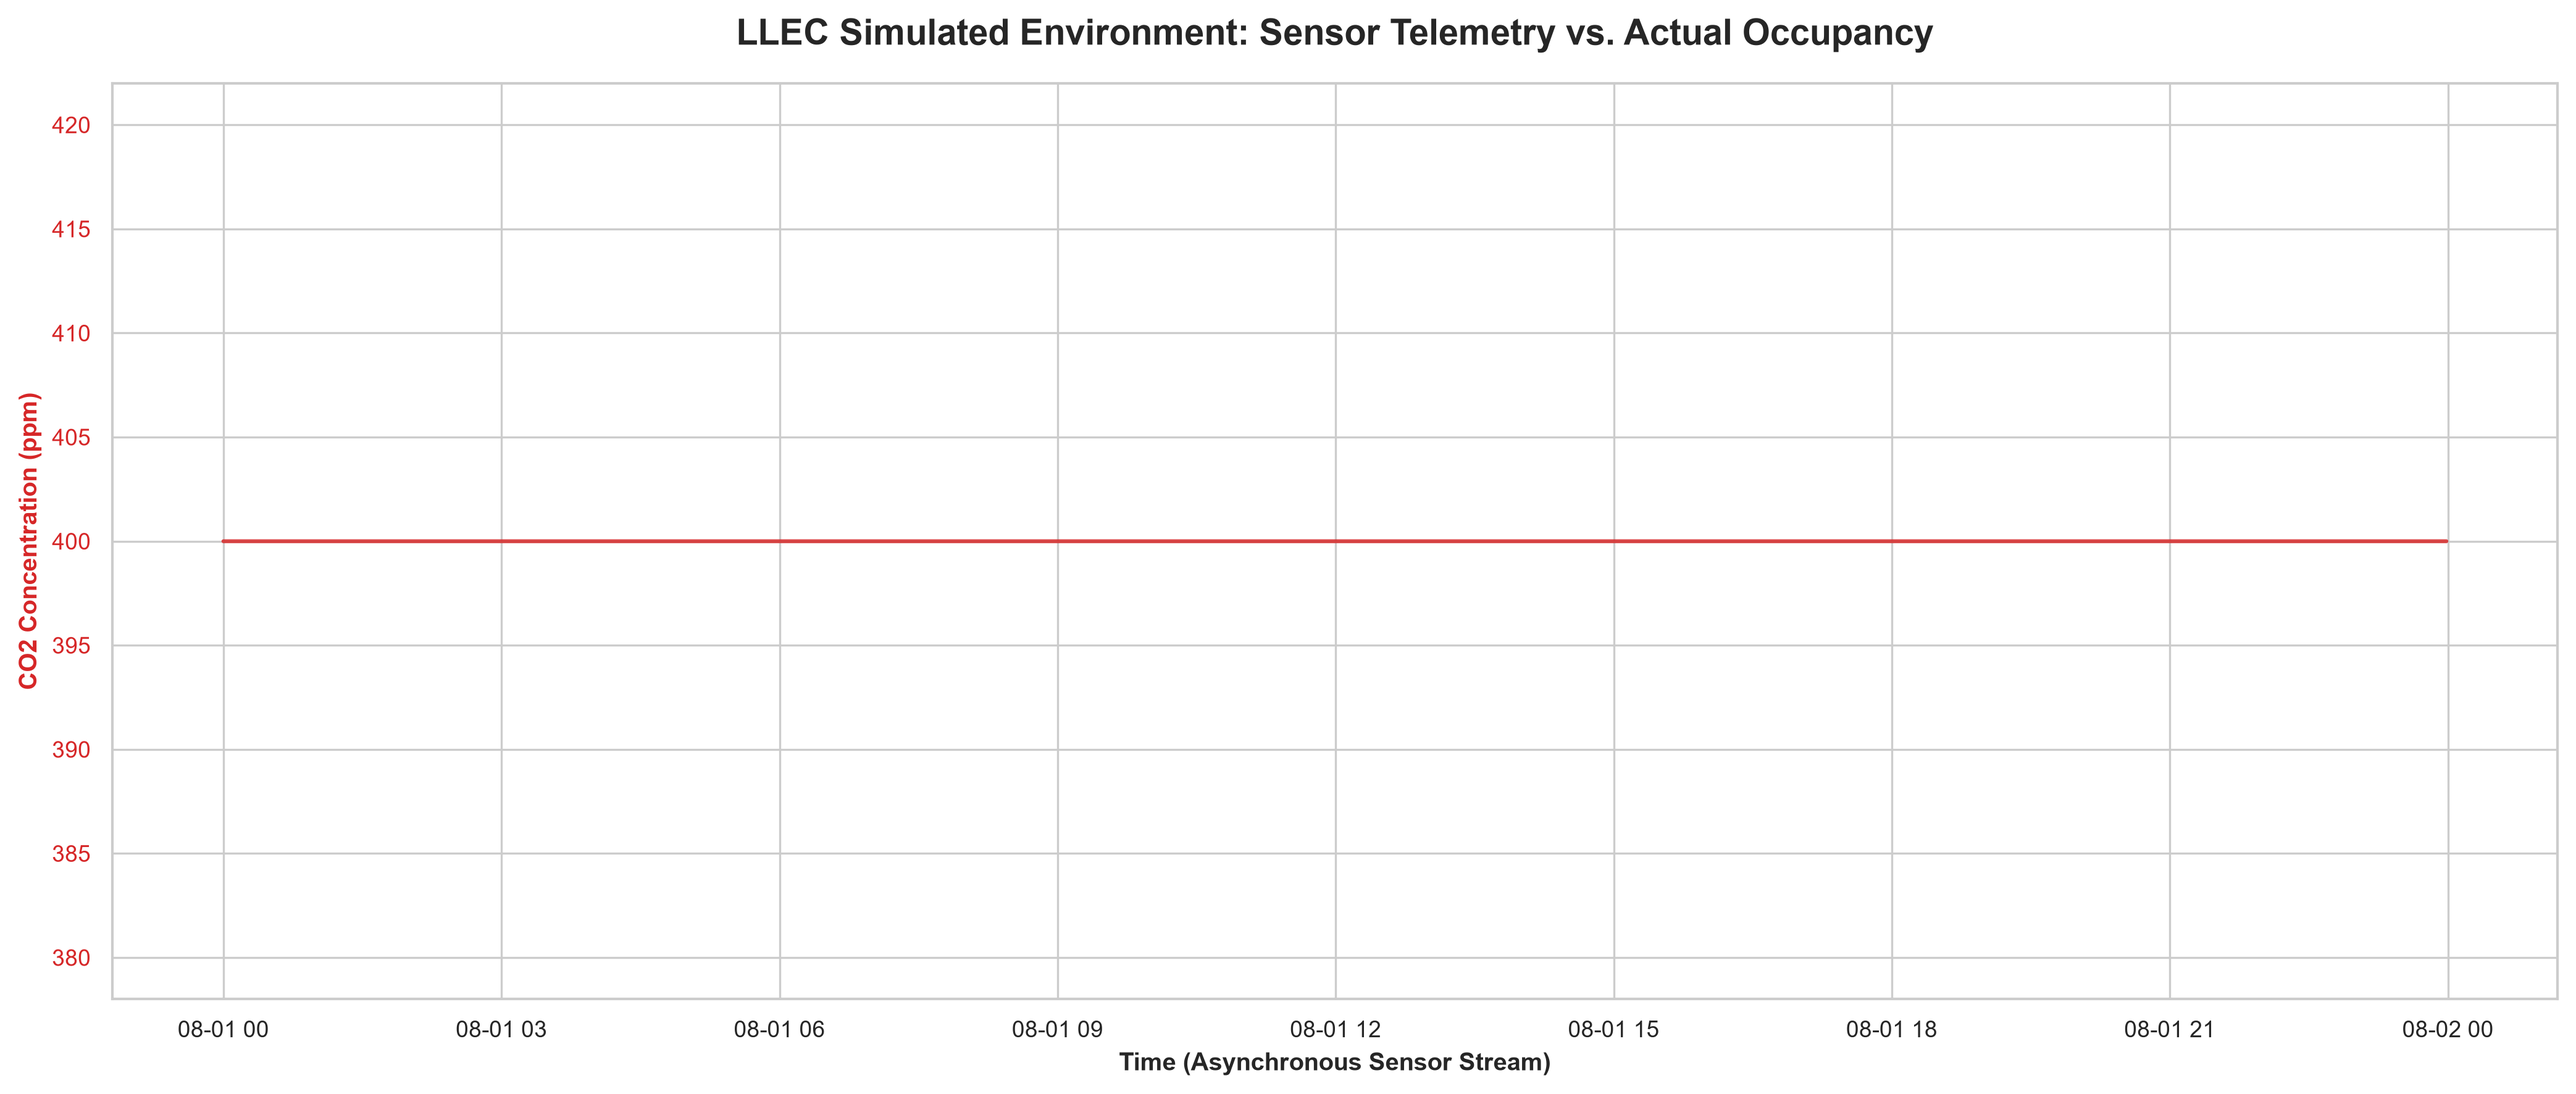
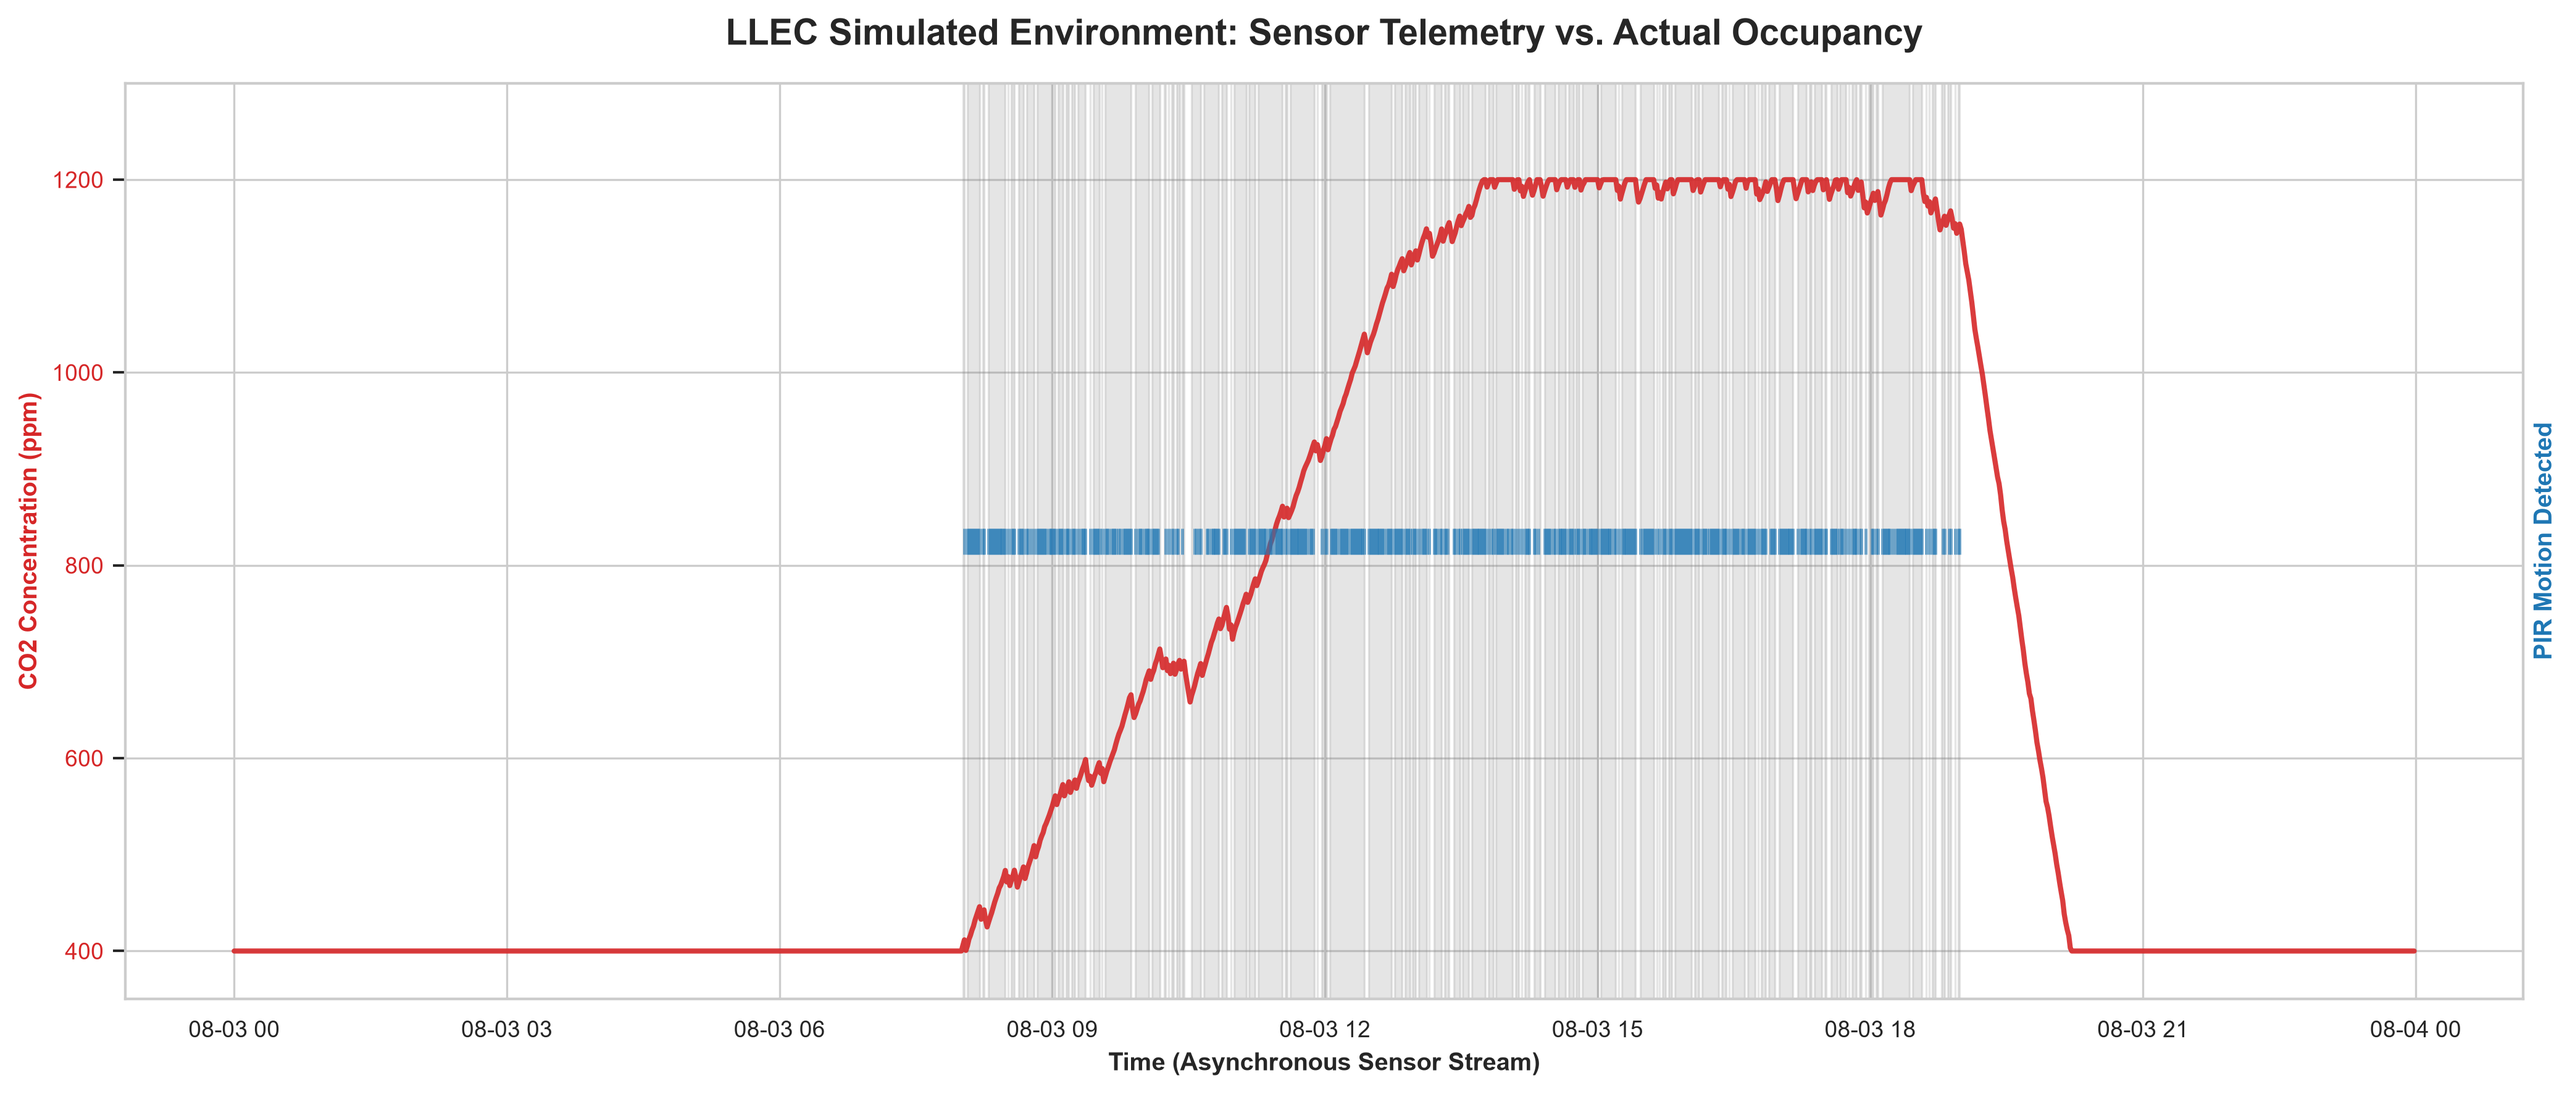
docs: embed sensor fusion analytics graph in README and update execution instructions

diff --git a/tests/test_pipeline.py b/tests/test_pipeline.py
@@ -1,0 +1,46 @@
+import os
+import pytest
+import pandas as pd
+from generate_mock_data import generate_telemetry
+from src.data_ingestion import ingest_and_synchronize
+from src.feature_engineering import engineer_features
+from src.model_training import train_occupancy_model
+
+# Pytest fixture to ensure fresh data is generated before tests run
+@pytest.fixture(scope="module")
+def setup_environment():
+    # Generate a smaller 2-day sample specifically for testing
+    generate_telemetry(days=2, freq='1min')
+    yield
+
+def test_telemetry_generation(setup_environment):
+    """Verifies that the mock data generator successfully outputs realistic telemetry."""
+    file_path = 'data/raw/sensor_telemetry.csv'
+    assert os.path.exists(file_path), "Raw telemetry file was not created."
+    
+    df = pd.read_csv(file_path)
+    assert not df.empty, "Generated telemetry dataframe is empty."
+    assert 'co2_ppm' in df.columns, "Missing critical CO2 sensor column."
+    assert 'occupancy' in df.columns, "Missing target variable 'occupancy'."
+
+def test_data_ingestion_synchronization(setup_environment):
+    """Verifies that the ingestion engine correctly resamples and aligns timestamps."""
+    df = ingest_and_synchronize('data/raw/sensor_telemetry.csv')
+    
+    assert df.index.name == 'timestamp', "Index was not properly set to timestamp."
+    assert df.isna().sum().sum() == 0, "Forward-fill failed; Null values detected in synchronized data."
+
+def test_feature_engineering_logic(setup_environment):
+    """Verifies the creation of rolling windows and rate-of-change (RoC) metrics."""
+    df = engineer_features('data/raw/sensor_telemetry.csv')
+    
+    assert 'co2_ppm_rolling_mean' in df.columns, "Rolling mean feature was not engineered."
+    assert 'luminance_lux_roc' in df.columns, "Rate of change (RoC) feature was not engineered."
+    assert len(df) > 0, "Feature engineering dropped all rows."
+
+def test_model_compilation(setup_environment):
+    """Verifies that the Random Forest model trains and serializes to disk."""
+    df = engineer_features('data/raw/sensor_telemetry.csv')
+    train_occupancy_model(df)
+    
+    assert os.path.exists('models/occupancy_rf_model.pkl'), "Model binary was not saved to the models directory."

diff --git a/src/visualization.py b/src/visualization.py
@@ -7,26 +7,34 @@ import logging
 logger = logging.getLogger(__name__)
 
 def plot_sensor_fusion(df: pd.DataFrame, output_dir: str = 'assets'):
-    """Generates a publication-grade visualization of sensor metrics vs. occupancy."""
+    """Generates a publication-grade visualization of dual-axis sensor metrics vs. occupancy."""
     logger.info("Generating sensor fusion visual analytics...")
     os.makedirs(output_dir, exist_ok=True)
     
-    # Use a clean, scientific aesthetic
     sns.set_theme(style="whitegrid", context="paper")
     fig, ax1 = plt.subplots(figsize=(14, 6))
     
-    # Plot Continuous Metric (CO2)
-    co2_color = '#d62728' # Professional muted red
+    # Left Axis: CO2 Concentration
+    co2_color = '#d62728'
     ax1.set_xlabel('Time (Asynchronous Sensor Stream)', fontweight='bold')
     ax1.set_ylabel('CO2 Concentration (ppm)', color=co2_color, fontweight='bold')
-    ax1.plot(df.index, df['co2_ppm'], color=co2_color, alpha=0.85, linewidth=1.5, label='CO2 (ppm)')
+    ax1.plot(df.index, df['co2_ppm'], color=co2_color, alpha=0.9, linewidth=2, label='CO2 (ppm)')
     ax1.tick_params(axis='y', labelcolor=co2_color)
+    ax1.set_ylim(350, 1300)
     
-    # Overlay Ground Truth Occupancy as shaded regions
+    # Right Axis: PIR Motion Triggers
+    ax2 = ax1.twinx()
+    pir_color = '#1f77b4'
+    ax2.set_ylabel('PIR Motion Detected', color=pir_color, fontweight='bold')
+    ax2.scatter(df.index[df['pir_motion'] == 1], df['pir_motion'][df['pir_motion'] == 1], 
+                color=pir_color, alpha=0.6, marker='|', s=100, label='PIR Trigger')
+    ax2.set_yticks([]) # Hide right y-ticks for cleaner look
+    
+    # Ground Truth Occupancy Shading
     if 'occupancy' in df.columns:
         ax1.fill_between(df.index, ax1.get_ylim()[0], ax1.get_ylim()[1], 
                          where=(df['occupancy'] == 1), 
-                         color='#7f7f7f', alpha=0.2, label='Room Occupied')
+                         color='#7f7f7f', alpha=0.2, label='True Occupancy')
     
     plt.title('LLEC Simulated Environment: Sensor Telemetry vs. Actual Occupancy', fontsize=14, fontweight='bold', pad=15)
     fig.tight_layout()

diff --git a/generate_mock_data.py b/generate_mock_data.py
@@ -4,7 +4,7 @@ import os
 
 def generate_telemetry(days=7, freq='1min'):
     print("Initializing IoT Telemetry Simulation...")
-    timestamps = pd.date_range(start='2026-08-01', periods=(days * 24 * 60), freq=freq)
+    timestamps = pd.date_range(start='2026-08-03', periods=(days * 24 * 60), freq=freq)
     df = pd.DataFrame({'timestamp': timestamps})
     
     # Simulate human behavior (Office hours 08:00 - 18:00)

diff --git a/README.md b/README.md
@@ -1,16 +1,17 @@
-
 # 🏢 IoT Occupancy Estimator & Sensor Fusion Framework
 
 ![Python](https://img.shields.io/badge/Python-3.10+-blue?style=for-the-badge&logo=python)
 ![Scikit-Learn](https://img.shields.io/badge/scikit--learn-1.4.0-orange?style=for-the-badge&logo=scikit-learn)
+![CI Pipeline](https://github.com/thanhan25/iot-occupancy-estimator-framework/actions/workflows/ci_pipeline.yml/badge.svg)
 ![Status](https://img.shields.io/badge/Status-Production_Ready-success?style=for-the-badge)
 
 ## 📌 Executive Summary
-
 An enterprise-grade, time-series machine learning framework designed to estimate real-time room occupancy in office buildings using multi-modal IoT sensor telemetry. By fusing asynchronous data streams (PIR motion, $CO_2$ concentration, luminance, and temperature), this framework provides a highly accurate, non-intrusive alternative to direct camera surveillance, directly supporting the intelligent operation of smart HVAC and shading systems.
 
-## ⚙ System Architecture
+## 📊 Sensor Fusion Analytics
+![Sensor Fusion Analytics](assets/sensor_fusion_analysis.png)
 
+## ⚙ System Architecture
 The framework is built with strict adherence to reproducibility and scalable data engineering principles:
 
 1. **Telemetry Simulation & Ingestion:** Generates realistic, physically-constrained time-series data mirroring standard office IoT arrays (5-10 devices per room).
@@ -20,32 +21,39 @@ The framework is built with strict adherence to reproducibility and scalable dat
 ## 🚀 Quickstart & Reproducibility
 
 **1. Clone the repository and install dependencies:**
-
 ```bash
 git clone [https://github.com/thanhan25/iot-occupancy-estimator-framework.git](https://github.com/thanhan25/iot-occupancy-estimator-framework.git)
 cd iot-occupancy-estimator-framework
-pip install -r requirements.txt
+make install
 ```
 
 **2. Generate Mock Telemetry Data:**
-Because physical sensor data is proprietary, this module generates a realistic, 7-day minute-by-minute testing array.
+Because physical sensor data is proprietary, this module generates a realistic testing array simulating asynchronous IoT latency.
 
 ```bash
-python generate_mock_data.py
+make generate
 ```
 
 **3. Execute the Full Pipeline:**
-This will trigger the ETL process, engineer time-series features, evaluate the model, and save the binary weights.
+This triggers the ETL process, engineers time-series features, evaluates the Random Forest model, and serializes the binary weights.
 
 ```bash
-python -m src.pipeline
+make run
 ```
 
-## 📊 Analytical Methodology
-- Asynchronous Integration: Handles the reality that PIR sensors trigger asynchronously compared to continuous-polling PQI meters.
+**4. Run the Test Suite:**
+Execute the pytest suite to verify ingestion logic and structural integrity.
+
+```bash
+make test
+```
+
+## 📈 Analytical Methodology
+- Asynchronous Integration: Handles the reality that event-based PIR sensors trigger asynchronously compared to continuous-polling PQI meters via Pandas resampling and forward-fill interpolation.
+
 - Algorithm Evaluation: Model hyper-parameters and target variables are completely decoupled via config.yaml to allow for rapid experimental design and A/B testing of different estimation approaches.
 
 ## 👤 Author
-An Vo
+**An Vo**
 M.Sc. Quantitative Economics Candidate | University of Bonn
-
+Bridging rigorous statistical modeling with production-ready data engineering.
